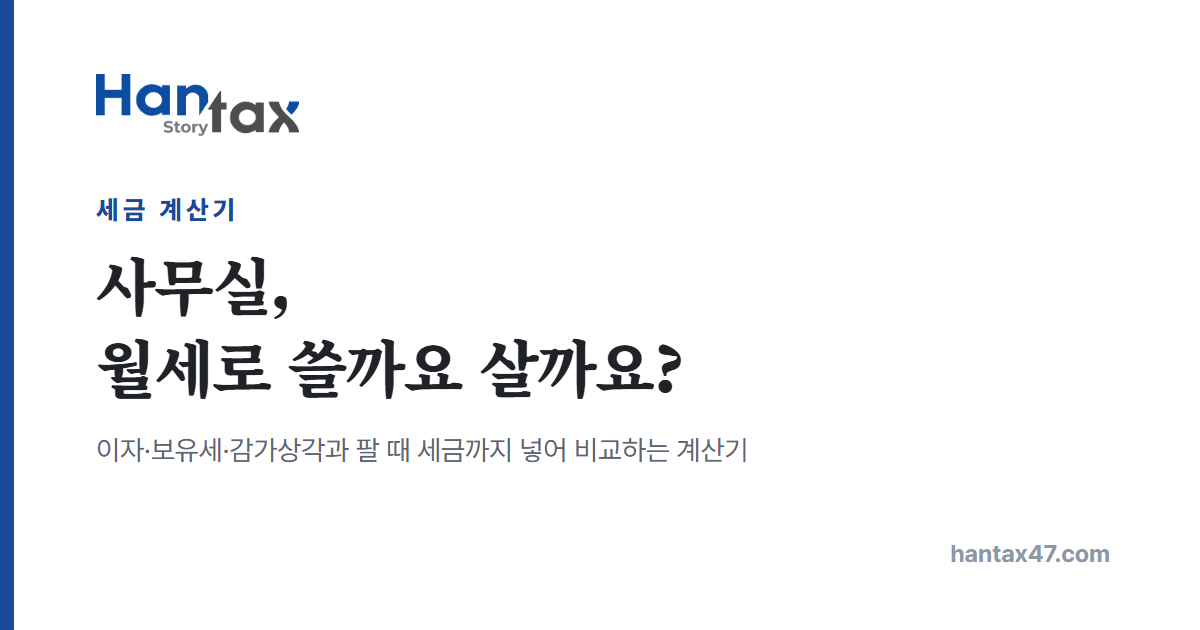
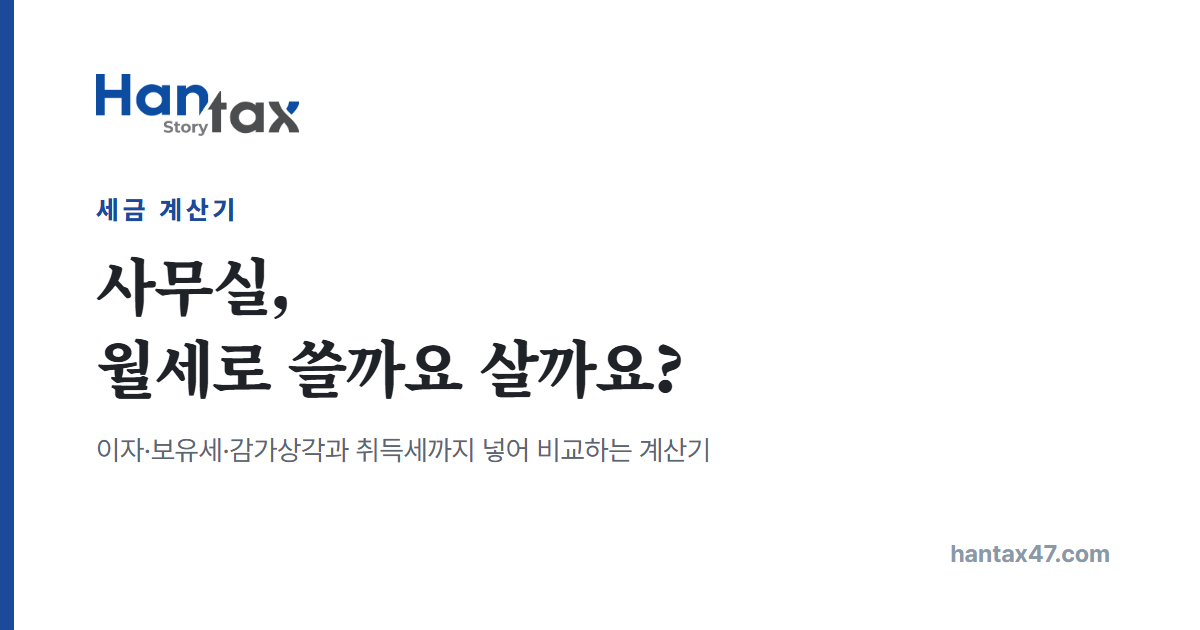
사무실 매입 계산기, 한 해 기준 비교로 단순화
부동산은 대부분 오래 보유하므로 보유 기간과 시세 상승률, 팔 때의 세금을 빼고 한 해 부담으로 비교합니다. 처음에 내는 취득세는 따로 보여 주고, 월세보다 한 해 덜 드는 금액으로 몇 년이면 메워지는지 결론에 적습니다.
교통유발부담금은 면적으로 추정하지 않고 금액을 직접 넣도록 바꿨습니다. 바닥면적 합계 1,000㎡ 이상 건물에서 소유 면적 160㎡ 이상일 때 나온다는 요건과, 중개사나 매도인에게 지난해 고지서 금액을 확인하라는 안내를 도움말과 결과, FAQ에 넣었습니다.
감가상각비는 나가는 돈에서 빼고 비용 처리에만 반영합니다. 표를 나가는 돈, 비용 처리, 대표님 개인, 묶인 돈 구간으로 나눠 무엇이 실제 지출이고 무엇이 비용 인정인지 구분되게 했습니다.

Changed region(s): [[0.2775, 0.6937, 0.6167, 0.754]]

diff --git a/tools/office-buy.html b/tools/office-buy.html
@@ -4,10 +4,10 @@
 <meta charset="UTF-8">
 <meta name="viewport" content="width=device-width, initial-scale=1.0">
 <title>사무실 매입 계산기 2026, 월세로 쓸까요 살까요? | 한택스</title>
-<meta name="description" content="사무실과 상가를 월세로 쓸 때와 회사가 살 때, 대표님이 사서 회사에 임대할 때를 보유 기간 전체로 비교합니다. 대출이자와 재산세·종부세·교통유발부담금, 감가상각, 취득세와 팔 때 내는 세금까지 넣어 법인과 개인사업자의 절세 효과를 계산합니다.">
+<meta name="description" content="사무실과 상가를 월세로 쓸 때와 회사가 살 때, 대표님이 사서 회사에 임대할 때를 한 해 기준으로 비교합니다. 대출이자와 재산세·종부세·교통유발부담금, 감가상각, 취득세까지 넣어 법인과 개인사업자의 절세 효과를 계산합니다.">
 <link rel="canonical" href="https://www.hantax47.com/tools/office-buy.html">
 <meta property="og:title" content="사무실, 월세로 쓸까요 살까요?">
-<meta property="og:description" content="이자·보유세·감가상각과 팔 때 세금까지 넣어 월세와 매입을 비교하는 계산기">
+<meta property="og:description" content="이자·보유세·감가상각과 취득세까지 넣어 월세와 매입을 비교하는 계산기">
 <meta property="og:type" content="website">
 <meta property="og:url" content="https://www.hantax47.com/tools/office-buy.html">
 <meta property="og:image" content="https://www.hantax47.com/assets/og/tool-office-buy.png">
@@ -76,6 +76,7 @@
 .ytable tr.sum td{font-weight:800;color:var(--ink);background:var(--blue-soft)}
 .ytable td.best{color:var(--blue);font-weight:800}
 .ytable td small{display:block;font-size:11.5px;color:var(--mute);margin-top:2px;font-weight:400}
+.ytable tr.sec td{background:var(--soft);font-size:12.5px;font-weight:700;color:var(--mute);padding:8px 10px}
 #yt td+td,#yt th+th{white-space:nowrap}
 .steps .body{overflow-x:auto}
 .ycap{font-size:13px;color:var(--mute);margin-top:8px;line-height:1.7}
@@ -144,7 +145,7 @@
    "name": "월세와 매입은 세금이 어떻게 다른가요?",
    "acceptedAnswer": {
     "@type": "Answer",
-    "text": "월세는 낸 금액이 전부 비용이 됩니다. 매입하면 산 돈 자체는 비용이 아니고, 대출 이자와 재산세 같은 보유세, 건물분 감가상각비만 비용이 됩니다. 대신 사무실이 자산으로 남아 팔 때 시세 차익을 얻고, 그 차익에 세금을 냅니다. 그래서 몇 년을 쓸지, 값이 얼마나 오를지에 따라 유불리가 갈립니다."
+    "text": "월세는 낸 금액이 전부 비용이 됩니다. 매입하면 산 돈 자체는 비용이 아니고, 대출 이자와 재산세 같은 보유세, 건물분 감가상각비만 비용이 됩니다. 대신 사무실이 자산으로 남습니다. 이 계산기는 오래 보유한다고 보고 한 해 부담만 비교하며, 처음에 내는 취득세가 몇 년이면 메워지는지 함께 알려 드립니다."
    }
   },
   {
@@ -176,7 +177,7 @@
    "name": "교통유발부담금은 누가 내나요?",
    "acceptedAnswer": {
     "@type": "Answer",
-    "text": "바닥면적 합계가 1,000㎡ 이상인 건물의 소유자가 해마다 냅니다. 여러 명이 나눠 가진 건물은 소유 면적이 160㎡ 미만이면 나오지 않습니다. 금액은 면적에 단위부담금과 용도별 계수를 곱해 정하며, 서울 업무시설은 대략 ㎡당 1,260원 안팎입니다. 월세로 쓸 때는 건물주가 내지만 관리비에 넣어 받는 경우도 있습니다."
+    "text": "각 층 바닥면적을 합해 1,000㎡ 이상인 건물의 소유자가 해마다 냅니다. 여러 명이 나눠 가진 건물은 내 소유 면적이 160㎡ 이상일 때만 나옵니다. 금액은 지역과 건물 규모, 용도에 따라 달라 직접 계산하기 어려우니 사기 전에 중개사나 매도인에게 지난해 고지서 금액을 확인해 보세요. 월세로 쓸 때는 건물주가 내지만 관리비에 넣어 받는 경우도 있습니다."
    }
   },
   {
@@ -184,7 +185,7 @@
    "name": "법인이 살까요, 대표님이 사서 임대할까요?",
    "acceptedAnswer": {
     "@type": "Answer",
-    "text": "법인이 사면 이자와 감가상각이 법인 비용이 되고 차익도 법인에 남습니다. 대표님이 사서 임대하면 법인은 월세를 비용으로 넣고, 대표님은 그 월세를 임대소득으로 받습니다. 회사 돈을 월세로 가져오는 셈이라 급여나 배당과 비교해 볼 만하고, 팔 때는 개인 양도소득세에 장기보유특별공제가 적용됩니다. 대신 대표님 종합소득세와 건강보험료가 늘어납니다."
+    "text": "법인이 사면 이자와 감가상각이 법인 비용이 되고 차익도 법인에 남습니다. 대표님이 사서 임대하면 법인은 월세를 비용으로 넣고, 대표님은 그 월세를 임대소득으로 받습니다. 회사 돈을 월세로 가져오는 셈이라 급여나 배당과 비교해 볼 만합니다. 대신 대표님 종합소득세와 건강보험료가 늘어나고, 과밀억제권역의 설립 5년 이내 법인이라면 취득세 중과를 피할 수 있습니다."
    }
   },
   {
@@ -228,7 +229,7 @@
   <div class="wrap">
     <span class="eyebrow">사무실</span>
     <h1>사무실,<br>월세로 쓸까요 살까요?</h1>
-    <p class="lead">월세로 쓸 때와 회사가 직접 살 때, 대표님이 사서 회사에 임대할 때를 보유 기간 전체로 비교합니다. 이자와 보유세, 감가상각, 팔 때 내는 세금까지 넣어 절세 효과를 함께 보여 드립니다.</p>
+    <p class="lead">월세로 쓸 때와 회사가 직접 살 때, 대표님이 사서 회사에 임대할 때를 한 해 기준으로 비교합니다. 이자와 보유세, 감가상각까지 넣어 절세 효과를 함께 보여 드립니다.</p>
   </div>
 </section>
 
@@ -250,16 +251,8 @@
           <div class="unit"><input type="text" id="i-pub" inputmode="numeric"><span>원</span></div>
         </div>
         <div>
-          <label for="i-area">면적 <small>교통유발부담금용</small> <button type="button" class="help" aria-label="설명 보기" aria-expanded="false" data-help="소유하실 부분의 바닥면적 합계입니다. 바닥면적이 1,000㎡ 이상인 건물에서 소유 면적이 160㎡ 이상이면 해마다 교통유발부담금이 나옵니다. 서울 업무시설 기준으로 ㎡당 약 1,260원으로 계산하며, 건물 규모와 지역에 따라 다릅니다. 모르시면 비워 두세요.">?</button></label>
-          <div class="unit"><input type="text" id="i-area" inputmode="numeric"><span>㎡</span></div>
-        </div>
-        <div>
-          <label for="i-years">보유 기간 <button type="button" class="help" aria-label="설명 보기" aria-expanded="false" data-help="사서 쓰다가 팔 때까지의 기간입니다. 매입은 처음에 취득세가 들고 팔 때 시세 차익이 생기므로, 짧게 보면 불리하고 길게 볼수록 유리해지는 경우가 많습니다.">?</button></label>
-          <select id="i-years"><option value="3">3년</option><option value="5">5년</option><option value="10" selected>10년</option><option value="15">15년</option><option value="20">20년</option></select>
-        </div>
-        <div>
-          <label for="i-grow">연 시세 상승률 <small>가정</small> <button type="button" class="help" aria-label="설명 보기" aria-expanded="false" data-help="해마다 사무실 값이 몇 % 오른다고 볼지 정하는 값입니다. 결과가 이 값에 크게 좌우되므로, 0%로도 넣어 보시는 것을 권합니다. 결과 화면에서 시세가 그대로일 때의 결과도 함께 알려 드립니다.">?</button></label>
-          <div class="unit"><input type="text" id="i-grow" inputmode="decimal" value="2"><span>%</span></div>
+          <label for="i-traffic">교통유발부담금 <small>한 해, 나오는 경우만</small> <button type="button" class="help" aria-label="설명 보기" aria-expanded="false" data-help="각 층 바닥면적을 합해 1,000㎡ 이상인 건물의 소유자에게 해마다 나옵니다. 여러 명이 나눠 가진 건물이면 내 소유 면적이 160㎡ 이상일 때만 나옵니다. 금액은 지역과 건물 규모, 용도에 따라 달라 직접 계산하기 어려우니, 중개사나 매도인에게 지난해 고지서 금액을 물어 넣어 주세요. 나오지 않으면 비워 두시면 됩니다.">?</button></label>
+          <div class="unit"><input type="text" id="i-traffic" inputmode="numeric"><span>원</span></div>
         </div>
 
         <div class="divider"><b>월세로 쓸 때</b><span>같은 사무실을 빌린다면</span></div>
@@ -278,7 +271,7 @@
           <div class="unit"><input type="text" id="i-loan" inputmode="numeric"><span>원</span></div>
         </div>
         <div>
-          <label for="i-rate">대출 이자율 <button type="button" class="help" aria-label="설명 보기" aria-expanded="false" data-help="대출 이자는 비용으로 인정됩니다. 이 계산기는 이자만 내다가 팔 때 원금을 한꺼번에 갚는 것으로 봅니다.">?</button></label>
+          <label for="i-rate">대출 이자율 <button type="button" class="help" aria-label="설명 보기" aria-expanded="false" data-help="대출 이자는 비용으로 인정됩니다. 원금 상환은 비용이 아니어서, 이 계산기는 이자만 내는 것으로 봅니다.">?</button></label>
           <div class="unit"><input type="text" id="i-rate" inputmode="decimal" value="4.5"><span>%</span></div>
         </div>
         <div class="chks" id="heavy-row">
@@ -299,7 +292,7 @@
           <div class="unit"><input type="text" id="i-profit" inputmode="numeric"><span>원</span></div>
         </div>
         <div>
-          <label for="i-relief">세액감면 <button type="button" class="help" aria-label="설명 보기" aria-expanded="false" data-help="감면을 받고 계시면 비용이 늘어 세금이 줄 때 감면액도 함께 줄어 실제로 아끼는 돈이 적어집니다. 팔 때 생기는 처분이익에는 감면이 적용되지 않습니다.">?</button></label>
+          <label for="i-relief">세액감면 <button type="button" class="help" aria-label="설명 보기" aria-expanded="false" data-help="감면을 받고 계시면 비용이 늘어 세금이 줄 때 감면액도 함께 줄어 실제로 아끼는 돈이 적어집니다.">?</button></label>
           <select id="i-relief">
             <option value="0">받지 않음</option>
             <option value="0.1">중소기업특별세액감면 10%</option>
@@ -348,7 +341,7 @@
           <div class="body" id="steps"></div>
         </details>
         <div class="ask">
-          <p><b>누구 명의로 살지는 사기 전에 정해야 합니다.</b><br>회사가 살지 대표님이 사서 임대할지, 취득세 중과와 대출, 나중에 팔 때의 세금까지 함께 따져 드립니다.</p>
+          <p><b>누구 명의로 살지는 사기 전에 정해야 합니다.</b><br>회사가 살지 대표님이 사서 임대할지, 취득세 중과와 대출, 보유세까지 함께 따져 드립니다.</p>
           <div class="btns">
             <a href="http://pf.kakao.com/_xmsaxmV/chat" target="_blank" rel="noopener" class="btn btn-kakao">카카오톡으로 문의하기</a>
             <a href="../consult/" class="btn btn-primary">상담 신청서 남기기</a>
@@ -360,7 +353,7 @@
         <h3>자주 묻는 질문</h3>
         <details>
           <summary>월세와 매입은 세금이 어떻게 다른가요?</summary>
-          <div class="a">월세는 낸 금액이 전부 비용이 됩니다. 매입하면 산 돈 자체는 비용이 아니고, 대출 이자와 재산세 같은 보유세, 건물분 감가상각비만 비용이 됩니다. 대신 사무실이 자산으로 남아 팔 때 시세 차익을 얻고, 그 차익에 세금을 냅니다. 그래서 몇 년을 쓸지, 값이 얼마나 오를지에 따라 유불리가 갈립니다.</div>
+          <div class="a">월세는 낸 금액이 전부 비용이 됩니다. 매입하면 산 돈 자체는 비용이 아니고, 대출 이자와 재산세 같은 보유세, 건물분 감가상각비만 비용이 됩니다. 대신 사무실이 자산으로 남습니다. 이 계산기는 오래 보유한다고 보고 한 해 부담만 비교하며, 처음에 내는 취득세가 몇 년이면 메워지는지 함께 알려 드립니다.</div>
         </details>
         <details>
           <summary>감가상각은 얼마나 인정되나요?</summary>
@@ -376,11 +369,11 @@
         </details>
         <details>
           <summary>교통유발부담금은 누가 내나요?</summary>
-          <div class="a">바닥면적 합계가 1,000㎡ 이상인 건물의 소유자가 해마다 냅니다. 여러 명이 나눠 가진 건물은 소유 면적이 160㎡ 미만이면 나오지 않습니다. 금액은 면적에 단위부담금과 용도별 계수를 곱해 정하며, 서울 업무시설은 대략 ㎡당 1,260원 안팎입니다. 월세로 쓸 때는 건물주가 내지만 관리비에 넣어 받는 경우도 있습니다.</div>
+          <div class="a">각 층 바닥면적을 합해 1,000㎡ 이상인 건물의 소유자가 해마다 냅니다. 여러 명이 나눠 가진 건물은 내 소유 면적이 160㎡ 이상일 때만 나옵니다. 금액은 지역과 건물 규모, 용도에 따라 달라 직접 계산하기 어려우니 사기 전에 중개사나 매도인에게 지난해 고지서 금액을 확인해 보세요. 월세로 쓸 때는 건물주가 내지만 관리비에 넣어 받는 경우도 있습니다.</div>
         </details>
         <details>
           <summary>법인이 살까요, 대표님이 사서 임대할까요?</summary>
-          <div class="a">법인이 사면 이자와 감가상각이 법인 비용이 되고 차익도 법인에 남습니다. 대표님이 사서 임대하면 법인은 월세를 비용으로 넣고, 대표님은 그 월세를 임대소득으로 받습니다. 회사 돈을 월세로 가져오는 셈이라 급여나 배당과 비교해 볼 만하고, 팔 때는 개인 양도소득세에 장기보유특별공제가 적용됩니다. 대신 대표님 종합소득세와 건강보험료가 늘어납니다.</div>
+          <div class="a">법인이 사면 이자와 감가상각이 법인 비용이 되고 차익도 법인에 남습니다. 대표님이 사서 임대하면 법인은 월세를 비용으로 넣고, 대표님은 그 월세를 임대소득으로 받습니다. 회사 돈을 월세로 가져오는 셈이라 급여나 배당과 비교해 볼 만합니다. 대신 대표님 종합소득세와 건강보험료가 늘어나고, 과밀억제권역의 설립 5년 이내 법인이라면 취득세 중과를 피할 수 있습니다.</div>
         </details>
         <details>
           <summary>대표님 소유 사무실을 회사에 임대할 때 주의할 점은요?</summary>
@@ -393,14 +386,13 @@
       </div>
 
       <p class="disc">
-        · 계산 결과는 참고용입니다. 실제 금액은 대출 조건과 공시가격, 지역 조례, 매각 시점의 시세에 따라 달라집니다.<br>
-        · 대출은 이자만 내다가 팔 때 원금을 한꺼번에 갚는 것으로 보았습니다. 월세와 금리는 보유 기간 동안 그대로라고 보았습니다.<br>
-        · 감가상각은 건물분(취득세 포함)만 40년 정액으로 계산했습니다. 취득세는 4.6%, 과밀억제권역 설립 5년 이내 법인은 9.4%입니다.<br>
+        · 계산 결과는 참고용입니다. 실제 금액은 대출 조건과 공시가격, 지역 조례에 따라 달라집니다.<br>
+        · 오래 보유한다고 보고 한 해 부담을 비교했습니다. 시세 변동과 팔 때의 세금은 넣지 않았고, 대출은 이자만 내는 것으로 보았습니다.<br>
+        · 감가상각은 건물분(취득세 포함)만 40년 정액으로 계산했습니다. 돈이 나가지는 않으므로 비용 처리에만 넣었습니다. 취득세는 4.6%, 과밀억제권역 설립 5년 이내 법인은 9.4%입니다.<br>
         · 보유세는 공시가격 기준 재산세(건물 0.25%, 토지 별도합산 0.2~0.4%, 공정시장가액비율 70%)와 지방교육세, 도시지역분, 토지 공시가격 80억 원 초과분의 종합부동산세(0.5~0.7%, 농어촌특별세 포함)로 계산했습니다. 종합부동산세의 재산세 중복분 공제는 반영하지 않았습니다.<br>
-        · 교통유발부담금은 소유 면적 160㎡ 이상일 때 ㎡당 약 1,260원(서울 업무시설, 단위부담금 700원 × 계수 1.8)으로 대략 계산했습니다. 건물 규모와 지역에 따라 다릅니다.<br>
+        · 교통유발부담금은 넣으신 금액을 그대로 씁니다. 나오는지와 금액은 중개사나 매도인에게 지난해 고지서로 확인해 주세요.<br>
         · 건물분 부가가치세는 일반과세자가 돌려받는 것으로 보았습니다. 간이과세자나 면세사업자는 돌려받지 못해 비용이 늘어납니다.<br>
-        · 대표님이 사서 임대하는 경우는 보증금 없이 같은 월세를 받는 것으로 보았고, 임대소득은 대표님 다른 종합소득과 합산하며 한 해 2,000만 원을 넘는 금액에 건강보험료(7.19%와 장기요양보험)를 더했습니다.<br>
-        · 개인이 팔 때는 양도소득세(장기보유특별공제 연 2%, 최대 30%, 기본공제 250만 원)를 계산하고, 그동안 비용으로 넣은 감가상각비는 취득가액에서 뺐습니다. 법인이 팔 때의 처분이익에는 감면을 적용하지 않았습니다.
+        · 대표님이 사서 임대하는 경우는 보증금 없이 같은 월세를 받는 것으로 보았고, 임대소득은 대표님 다른 종합소득과 합산하며 한 해 2,000만 원을 넘는 금액에 건강보험료(7.19%와 장기요양보험)를 더했습니다.
       </p>
 
       <div class="morelinks">
@@ -448,8 +440,6 @@ const ACQ=0.046, ACQ_HEAVY=0.094;       // 취득세 (지방교육세·농특세
 const LIFE=40;                          // 건물 기준내용연수
 const PUB_RATIO=0.7;                    // 공시가격을 모르면 매입가의 70%
 const FMV=0.7;                          // 재산세 공정시장가액비율
-const TRAFFIC=700*1.8;                  // 교통유발부담금 ㎡당 (서울 업무시설, 단위부담금 × 계수, 대략)
-const TRAFFIC_MIN=160;                  // 소유 면적이 이보다 작으면 부과하지 않습니다
 const HEALTH_FREE=20000000, HEALTH=0.0719, CARE=0.1314;   // 보수 외 소득 2천만 원 초과분 건강보험료
 
 // 재산세·지방교육세·도시지역분·종합부동산세 (한 해)
@@ -465,44 +455,30 @@ function holdTaxes(c){
   const jb=jb0*1.2;                    // 농어촌특별세 20%
   return {pub,local:f10(prop+edu+city),jb:f10(jb),total:f10(prop+edu+city+jb)};
 }
-const trafficFee=area=>area>=TRAFFIC_MIN?f10(area*TRAFFIC):0;
 // 사업자 본인의 법인세·소득세와 지방소득세 (감면은 법인세·소득세에만, 지방소득세는 감면 전 세액 기준)
 function bizTax(c,b){ if(c.noTax) return 0; const g=taxOf(c.corp?CIT:PIT,b); return g*(1-c.relief)+g*0.1; }
 const pitAll=b=>taxOf(PIT,b)*1.1;
-// 개인이 팔 때 양도소득세 (사업용 건물·토지, 장기보유특별공제 연 2% 최대 30%, 기본공제 250만 원)
-function transferTax(gain,years){
-  if(gain<=0) return 0;
-  const lt=years>=3?Math.min(0.3,0.02*years):0;
-  return f10(pitAll(gain*(1-lt)-2500000));
-}
 
+// 한 해 기준 비교 (오래 보유한다고 보고 시세 변동과 팔 때의 세금은 넣지 않습니다)
 function calcOffice(c){
-  const N=c.years, rentYear=c.rent*12;
-  const hold=holdTaxes(c), traffic=trafficFee(c.area);
-  const interest=f10(c.loan*c.rate);
-  const sale=f10(c.price*Math.pow(1+c.grow,N));
-  const gain=sale-c.price;                          // 시세 차익
-  const base=bizTax(c,c.profit);
+  const rentYear=c.rent*12;
+  const hold=holdTaxes(c), traffic=c.traffic;
   const debt=Math.min(c.loan,c.price);
+  const interest=f10(debt*c.rate);
+  const base=bizTax(c,c.profit);
 
   // ① 월세로 쓸 때
   const s1=f10(base-bizTax(c,c.profit-rentYear));
-  const o1={key:'rent',upfront:c.deposit,pay:rentYear,hold:0,traffic:0,dep:0,save:s1,ceoTax:0,ceoHealth:0,
-            opp:f10(c.deposit*c.yield),acq:0,gain:0,saleTax:0};
+  const o1={key:'rent',acq:0,upfront:c.deposit,pay:rentYear,hold:0,traffic:0,dep:0,cost:rentYear,save:s1,
+            ceoTax:0,ceoHealth:0,opp:f10(c.deposit*c.yield)};
 
   // ② 사업자가 직접 살 때
   const acq2=f10(c.price*(c.corp&&c.heavy?ACQ_HEAVY:ACQ));
   const dep2=f10((c.price+acq2)*c.bld/LIFE);
-  const cost2=interest+hold.total+traffic+dep2;
-  const after2=c.profit-cost2;
-  const s2=f10(base-bizTax(c,after2));
-  const book2=c.price+acq2-dep2*N;                 // 팔 때 장부가액 (감가상각한 만큼 줄어듭니다)
-  const tax2=c.corp
-    ?(c.noTax?0:f10((taxOf(CIT,Math.max(0,after2)+sale-book2)-taxOf(CIT,Math.max(0,after2)))*1.1))   // 처분이익에는 감면이 없습니다
-    :transferTax(sale-book2,N);
+  const cost2=interest+hold.total+traffic+dep2;          // 비용으로 인정되는 금액 (감가상각비는 돈이 나가지 않습니다)
   const eq2=c.price-debt+acq2;
-  const o2={key:'buy',upfront:eq2,pay:interest,hold:hold.total,traffic,dep:dep2,save:s2,ceoTax:0,ceoHealth:0,
-            opp:f10(eq2*c.yield),acq:acq2,gain,saleTax:tax2,book:book2,cost:cost2};
+  const o2={key:'buy',acq:acq2,upfront:eq2,pay:interest,hold:hold.total,traffic,dep:dep2,cost:cost2,
+            save:f10(base-bizTax(c,c.profit-cost2)),ceoTax:0,ceoHealth:0,opp:f10(eq2*c.yield)};
 
   // ③ 대표님이 사서 법인에 임대할 때 (법인만). 법인이 내는 월세는 대표님이 받으므로 둘을 합쳐 봅니다
   let o3=null;
@@ -513,18 +489,20 @@ function calcOffice(c){
     // 부동산임대업 적자는 다른 소득과 합치지 못하고 이월됩니다
     const ceoTax=inc>0?f10(pitAll(c.ceoBase+inc)-pitAll(c.ceoBase)):0;
     const ceoHealth=f10(Math.max(0,inc-HEALTH_FREE)*HEALTH*(1+CARE));
-    const book3=c.price+acq3-dep3*N;
     const eq3=c.price-debt+acq3;
-    o3={key:'ceo',upfront:eq3,pay:interest,hold:hold.total,traffic,dep:dep3,save:s1,ceoTax,ceoHealth,inc,
-        opp:f10(eq3*c.yield),acq:acq3,gain,saleTax:transferTax(sale-book3,N),book:book3};
+    o3={key:'ceo',acq:acq3,upfront:eq3,pay:interest,hold:hold.total,traffic,dep:dep3,cost:rentYear,save:s1,
+        ceoTax,ceoHealth,inc,opp:f10(eq3*c.yield)};
   }
   const list=[o1,o2,o3].filter(Boolean);
   for(const o of list){
-    o.year=o.pay+o.hold+o.traffic-o.save+o.ceoTax+o.ceoHealth+o.opp;   // 한 해 실제 부담
-    o.total=o.year*N+o.acq+o.saleTax-o.gain;                        // 보유 기간 전체 실제 부담
+    o.out=o.pay+o.hold+o.traffic;                                   // 실제로 나가는 돈
+    o.year=o.out-o.save+o.ceoTax+o.ceoHealth+o.opp;                 // 한 해 실제 부담
+    // 월세보다 한 해 덜 드는 금액으로 취득세를 메우는 데 걸리는 해
+    const gap=o1.year-o.year;
+    o.payback=o.acq&&gap>0?o.acq/gap:null;
   }
-  const best=list.reduce((a,b)=>b.total<a.total?b:a);
-  return {N,rentYear,hold,traffic,interest,sale,gain,list,best,o1,o2,o3};
+  const best=list.reduce((a,b)=>b.year<a.year?b:a);
+  return {rentYear,hold,traffic,interest,list,best,o1,o2,o3};
 }
 
 /* ── 입력 ─────────────────────────────────── */
@@ -532,7 +510,7 @@ const $=id=>document.getElementById(id);
 const won=n=>Math.round(n).toLocaleString('ko-KR');
 const num=s=>Number(String(s).replace(/[^0-9]/g,''))||0;
 const pct=id=>(Number(String($(id).value).replace(/[^0-9.]/g,''))||0)/100;
-['i-price','i-pub','i-area','i-deposit','i-rent','i-loan','i-profit','i-ceo'].forEach(id=>{
+['i-price','i-pub','i-traffic','i-deposit','i-rent','i-loan','i-profit','i-ceo'].forEach(id=>{
   const el=$(id); el.addEventListener('input',()=>{const v=num(el.value); el.value=v?v.toLocaleString('ko-KR'):'';});
 });
 // 법인일 때만 취득세 중과와 대표님 임대 비교를 묻습니다
@@ -546,8 +524,8 @@ $('i-biz').addEventListener('change',syncBiz);
 syncBiz();
 function read(){
   const corp=$('i-biz').value==='corp';
-  return {price:num($('i-price').value),bld:pct('i-bld'),pub:num($('i-pub').value),area:num($('i-area').value),
-    years:Number($('i-years').value),grow:pct('i-grow'),deposit:num($('i-deposit').value),rent:num($('i-rent').value),
+  return {price:num($('i-price').value),bld:pct('i-bld'),pub:num($('i-pub').value),traffic:num($('i-traffic').value),
+    deposit:num($('i-deposit').value),rent:num($('i-rent').value),
     loan:num($('i-loan').value),rate:pct('i-rate'),heavy:corp&&$('i-heavy').checked,
     corp,profit:num($('i-profit').value),relief:Number($('i-relief').value),yield:pct('i-yield'),
     ceoBase:num($('i-ceo').value),noTax:$('i-notax').checked};
@@ -558,65 +536,62 @@ const ready=()=>{ const c=read(); return !!(c.price&&c.rent); };
 /* ── 화면 ─────────────────────────────────── */
 const colName=(c,k)=>({rent:'월세',buy:c.corp?'법인이 매입':'매입',ceo:'대표님이 매입 후 임대'})[k];
 const sayName=(c,k)=>({rent:'월세로 쓰는 쪽',buy:c.corp?'법인이 사는 쪽':'사는 쪽',ceo:'대표님이 사서 회사에 임대하는 쪽'})[k];
-const money=v=>v<0?'− '+won(-v)+'원':won(v)+'원';
 const minus=v=>v?'− '+won(v)+'원':'0원';
+const yearsText=y=>y<1?'1년이 안 되어':(Math.round(y*10)/10).toString().replace(/[.]0$/,'')+'년이면';
 
 function render(){
-  const c=read(), r=calcOffice(c), L=r.list, N=r.N;
-  $('yt-head').innerHTML='<tr><th>보유 '+N+'년 기준</th>'+L.map(o=>'<th>'+colName(c,o.key)+'</th>').join('')+'</tr>';
+  const c=read(), r=calcOffice(c), L=r.list;
+  $('yt-head').innerHTML='<tr><th>한 해 기준</th>'+L.map(o=>'<th>'+colName(c,o.key)+'</th>').join('')+'</tr>';
+  const sec=t=>'<tr class="sec"><td colspan="'+(L.length+1)+'">'+t+'</td></tr>';
   const row=(l,sm,f,cls,cellCls)=>'<tr'+(cls?' class="'+cls+'"':'')+'><td>'+l+(sm?'<small>'+sm+'</small>':'')+'</td>'
     +L.map(o=>'<td'+(cellCls&&cellCls(o)?' class="'+cellCls(o)+'"':'')+'>'+f(o)+'</td>').join('')+'</tr>';
   const any=k=>L.some(o=>o[k]);
   $('yt-body').innerHTML=
       row('처음에 드는 돈','월세는 보증금, 매입은 자기자금과 취득세',o=>won(o.upfront)+'원')
-    +row('월세 · 대출이자','한 해',o=>won(o.pay)+'원')
-    +row('재산세 · 종부세 등','한 해',o=>won(o.hold)+'원')
-    +(any('traffic')?row('교통유발부담금','한 해 · 소유자 부담',o=>won(o.traffic)+'원'):'')
-    +row('감가상각비','한 해 · 돈은 나가지 않고 비용으로만 인정',o=>o.dep?won(o.dep)+'원':'-')
-    +row('비용 처리로 줄어드는 세금','한 해',o=>minus(o.save),'minus')
-    +(c.corp?row('대표님 소득세 증가','한 해 · 임대소득을 다른 소득과 합산',o=>o.key==='ceo'?won(o.ceoTax)+'원':'-'):'')
-    +(any('ceoHealth')?row('대표님 건강보험료','한 해 · 임대소득 2,000만 원 초과분',o=>o.key==='ceo'?won(o.ceoHealth)+'원':'-'):'')
-    +(c.yield?row('묶인 돈의 이자','한 해 · 예금 이자율 '+(c.yield*100).toFixed(1).replace(/[.]0$/,'')+'%',o=>won(o.opp)+'원'):'')
-    +row('한 해 실제 부담','',o=>won(o.year)+'원','tot')
-    +row(N+'년 동안 실제 부담','한 해 실제 부담 × '+N,o=>won(o.year*N)+'원')
-    +row('취득세','처음에 한 번',o=>won(o.acq)+'원')
-    +row('팔 때 내는 세금',c.corp?'법인은 처분이익 법인세, 개인은 양도소득세':'양도소득세',o=>money(o.saleTax))
-    +row('시세 차익','연 '+(c.grow*100).toFixed(1).replace(/[.]0$/,'')+'% 오른다고 가정',o=>o.gain?minus(o.gain):'0원','minus')
-    +row(N+'년 합계 실제 부담','',o=>won(o.total)+'원','sum',o=>o===r.best?'best':'');
+    +row('그 가운데 취득세',c.heavy?'법인 9.4% 중과, 개인 4.6%':'매입가의 4.6%',o=>o.acq?won(o.acq)+'원':'-')
+    +sec('나가는 돈')
+    +row('월세 · 대출이자','',o=>won(o.pay)+'원')
+    +row('재산세 · 종부세 등','공시가격 기준',o=>won(o.hold)+'원')
+    +(any('traffic')?row('교통유발부담금','넣어 주신 금액',o=>won(o.traffic)+'원'):'')
+    +row('나가는 돈 합계','',o=>won(o.out)+'원','sum')
+    +sec('비용 처리')
+    +row('감가상각비','돈은 나가지 않고 비용으로만 인정',o=>o.dep?won(o.dep)+'원':'-')
+    +row('비용으로 인정되는 금액',c.corp?'대표님 임대는 회사가 내는 월세':'나가는 돈 + 감가상각비',o=>won(o.cost)+'원')
+    +row('줄어드는 세금',c.noTax?'낼 세금이 없음':'',o=>minus(o.save),'minus')
+    +(c.corp?sec('대표님 개인')
+      +row('대표님 소득세 증가','임대소득을 다른 소득과 합산',o=>o.key==='ceo'?won(o.ceoTax)+'원':'-')
+      +(any('ceoHealth')?row('대표님 건강보험료','임대소득 2,000만 원 초과분',o=>o.key==='ceo'?won(o.ceoHealth)+'원':'-'):''):'')
+    +(c.yield?sec('묶인 돈')+row('묶인 돈의 이자','처음에 드는 돈 × 예금 이자율 '+(c.yield*100).toFixed(1).replace(/[.]0$/,'')+'%',o=>won(o.opp)+'원'):'')
+    +row('한 해 실제 부담','나가는 돈 − 줄어드는 세금'+(c.corp?' + 대표님 세금':'')+(c.yield?' + 묶인 돈의 이자':''),o=>won(o.year)+'원','tot',o=>o===r.best?'best':'');
 
-  $('res-sub').textContent=(c.corp?'법인':'개인사업자')+' · 매입가 '+won(c.price)+'원 · 월세 '+won(c.rent)+'원 · 보유 '+N+'년';
+  $('res-sub').textContent=(c.corp?'법인':'개인사업자')+' · 매입가 '+won(c.price)+'원 · 월세 '+won(c.rent)+'원';
 
   // 결론
   const rent=r.o1, best=r.best;
-  const others=L.filter(o=>o!==best);
-  const nextBest=others.reduce((a,b)=>b.total<a.total?b:a);
-  $('call').innerHTML='<div class="lbl">보유 '+N+'년 동안 보면</div>'
+  const nextBest=L.filter(o=>o!==best).reduce((a,b)=>b.year<a.year?b:a);
+  $('call').innerHTML='<div class="lbl">한 해 기준으로 보면</div>'
     +'<div class="val">'+sayName(c,best.key)+'이<br>가장 적게 듭니다</div>'
     +'<div class="sub">'+(best===rent
-        ?sayName(c,nextBest.key)+'보다 '+won(nextBest.total-best.total)+'원 덜 듭니다.'
-        :'월세로 쓰는 쪽보다 '+won(rent.total-best.total)+'원 덜 듭니다.')
-    +' 결과는 시세 상승률 가정에 크게 좌우되니 아래 안내도 함께 보세요.</div>';
-  $('ycap').textContent=L.map(o=>colName(c,o.key)+' '+won(o.total)+'원').join(' · ');
+        ?sayName(c,nextBest.key)+'보다 한 해 '+won(nextBest.year-best.year)+'원 덜 듭니다. 처음에 큰돈이 묶이지 않는 것도 월세의 장점입니다.'
+        :'월세로 쓰는 쪽보다 한 해 '+won(rent.year-best.year)+'원 덜 듭니다. 처음에 내는 취득세 '+won(best.acq)+'원은 '+yearsText(best.payback)+' 메워집니다.')
+    +'</div>';
+  $('ycap').textContent=L.map(o=>colName(c,o.key)+' 한 해 '+won(o.year)+'원').join(' · ');
 
   const notes=[];
-  if(c.grow>0){
-    const z=calcOffice(Object.assign({},c,{grow:0}));
-    notes.push({warn:z.best.key!==best.key,t:'시세가 오르지 않는다고 보면(0%) <b>'+sayName(c,z.best.key)+'이 가장 적게</b> 듭니다. '
-      +L.map(o=>colName(c,o.key)+' '+won(z.list.find(x=>x.key===o.key).total)+'원').join(', ')+'입니다.'});
-  }
+  for(const o of L) if(o.key!=='rent'&&!o.payback) notes.push({t:sayName(c,o.key)+'은 월세보다 한 해 부담이 커서 취득세를 메우지 못합니다. 사무실 값이 오르는 것까지 기대하실 때만 따져 볼 만합니다.'});
   if(c.heavy) notes.push({warn:1,t:'과밀억제권역에서 설립 5년이 안 된 법인이라 취득세가 <b>9.4%('+won(r.o2.acq)+'원)</b>로 중과됩니다. 대표님이 사면 4.6%('+won(r.o3.acq)+'원)입니다.'});
   if(r.o3){
     notes.push({t:'대표님이 사서 회사에 임대하면 회사는 월세를 비용으로 넣고 대표님은 그 월세를 임대소득으로 받습니다. 회사 돈을 월세로 가져오는 셈이라 급여나 배당과 함께 따져 볼 만합니다. 월세는 시세에 맞춰야 하며, 시세와 다르면 부당행위로 다시 계산됩니다.'});
     if(r.o3.inc<0) notes.push({t:'대표님 임대소득이 이자와 감가상각 때문에 한 해 '+won(-r.o3.inc)+'원 적자입니다. 부동산임대업 적자는 급여 같은 다른 소득과 합치지 못하고 15년 동안 이월됩니다.'});
     if(r.o3.ceoHealth) notes.push({t:'대표님 임대소득이 한 해 2,000만 원을 넘어 건강보험료가 한 해 '+won(r.o3.ceoHealth)+'원 더 붙습니다.'});
     if(!c.ceoBase) notes.push({t:'대표님 다른 종합소득 과세표준을 넣으시면 임대소득이 합쳐질 때 늘어나는 세금을 더 정확히 계산합니다.'});
-    notes.push({t:'법인이 사면 차익이 회사에 남아, 대표님이 가져가려면 배당세가 다시 붙습니다. 대표님이 사면 팔 때 개인 양도소득세에 장기보유특별공제가 적용됩니다.'});
   }
   if(r.hold.jb) notes.push({t:'토지 공시가격이 80억 원을 넘어 종합부동산세가 한 해 '+won(r.hold.jb)+'원 나옵니다.'});
-  if(r.traffic) notes.push({t:'교통유발부담금은 소유자가 냅니다. 월세로 쓸 때는 건물주가 내지만 관리비에 넣어 받는 건물도 있습니다.'});
+  if(!c.traffic) notes.push({t:'건물 바닥면적 합계가 1,000㎡ 이상이고 내 소유 면적이 160㎡ 이상이면 교통유발부담금이 해마다 나옵니다. 중개사나 매도인에게 지난해 고지서 금액을 확인해 넣어 주세요.'});
   if(c.noTax) notes.push({t:'지금 낼 세금이 없어 월세나 이자를 비용으로 넣어도 당장 줄어드는 세금이 없는 것으로 계산했습니다.'});
   if(!c.profit&&!c.noTax) notes.push({t:(c.corp?'당기순이익':'소득금액')+'을 넣으시면 비용 처리로 줄어드는 세금까지 계산합니다.'});
   $('verdict').innerHTML=notes.map(n=>'<span class="note'+(n.warn?' warn':'')+'">'+n.t+'</span>').join('');
+  $('verdict').style.display=notes.length?'':'none';
 
   const srow=(l,m,v)=>'<tr><td>'+l+'</td><td class="mid">'+m+'</td><td>'+v+'</td></tr>';
   const o2=r.o2;
@@ -624,14 +599,11 @@ function render(){
     +srow('공시가격',c.pub?'넣어 주신 금액':'매입가 × 70%',won(r.hold.pub)+'원')
     +srow('재산세 등','건물 0.25%, 토지 0.2~0.4% (공정시장가액비율 70%) + 지방교육세 + 도시지역분',won(r.hold.local)+'원')
     +(r.hold.jb?srow('종합부동산세','토지 공시가격 80억 원 초과분 0.5~0.7% + 농특세',won(r.hold.jb)+'원'):'')
-    +(r.traffic?srow('교통유발부담금','면적 '+won(c.area)+'㎡ × 약 1,260원',won(r.traffic)+'원'):'')
     +srow('대출이자','대출금 '+won(Math.min(c.loan,c.price))+' × '+(c.rate*100).toFixed(2).replace(/[.]?0+$/,'')+'%',won(r.interest)+'원')
     +srow('취득세',c.heavy?'매입가 × 9.4% (법인 중과)':'매입가 × 4.6%',won(o2.acq)+'원')
     +srow('감가상각비','(매입가 + 취득세) × 건물분 '+Math.round(c.bld*100)+'% ÷ 40년',won(o2.dep)+'원')
-    +srow('팔 때 시세','매입가 × (1 + '+(c.grow*100).toFixed(1).replace(/[.]0$/,'')+'%)의 '+N+'제곱',won(r.sale)+'원')
-    +srow('팔 때 장부가액','매입가 + 취득세 − 감가상각 '+N+'년',won(o2.book)+'원')
-    +srow('팔 때 내는 세금',c.corp?'처분이익(시세 − 장부가액)에 법인세':'양도차익에서 장기보유특별공제와 기본공제를 빼고 세율 적용',money(o2.saleTax))
-    +(r.o3?srow('대표님 임대소득금액','월세 − 이자 − 보유세 − 교통유발부담금 − 감가상각',money(r.o3.inc)):'')
+    +srow('줄어드는 세금 (매입)','과세표준 '+won(c.profit)+'에서 비용 '+won(o2.cost)+'을 뺀 만큼',won(o2.save)+'원')
+    +(r.o3?srow('대표님 임대소득금액','월세 − 이자 − 보유세 − 교통유발부담금 − 감가상각',(r.o3.inc<0?'− ':'')+won(Math.abs(r.o3.inc))+'원'):'')
     +'</table>';
   $('res').style.display='block';
 }

diff --git a/tools/index.html b/tools/index.html
@@ -163,7 +163,7 @@
 
       <a class="tool" href="office-buy.html">
         <b>사무실,<br>월세로 쓸까요 살까요?</b>
-        <p>월세로 쓸 때와 회사가 살 때, 대표님이 사서 회사에 임대할 때를 보유 기간 전체로 비교합니다. 이자와 보유세, 감가상각, 팔 때 내는 세금까지 넣습니다.</p>
+        <p>월세로 쓸 때와 회사가 살 때, 대표님이 사서 회사에 임대할 때를 한 해 기준으로 비교합니다. 이자와 보유세, 감가상각, 취득세까지 넣습니다.</p>
         <span class="go">계산해 보기</span>
       </a>
     </div>
